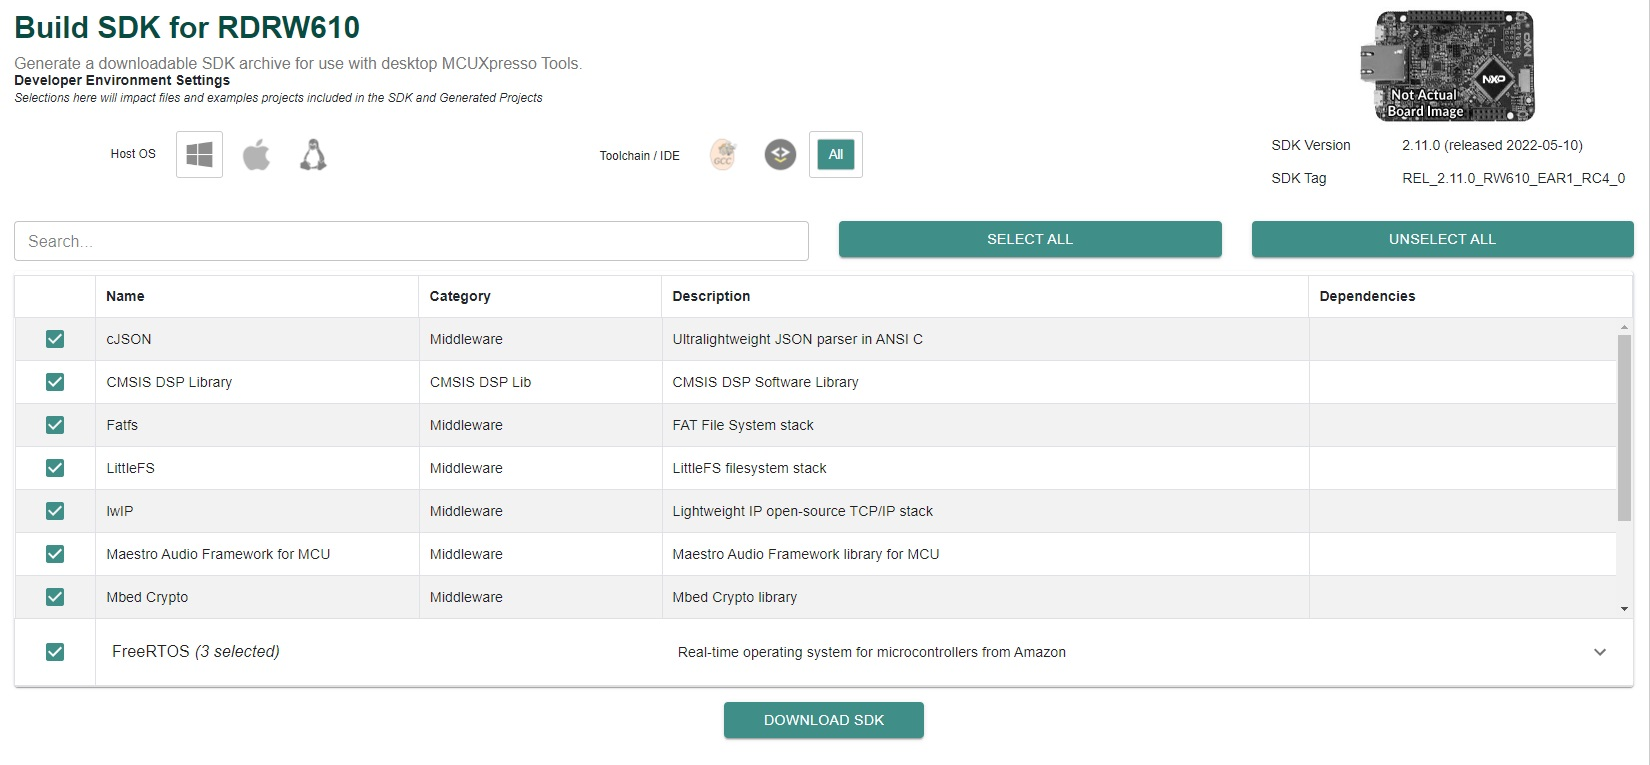
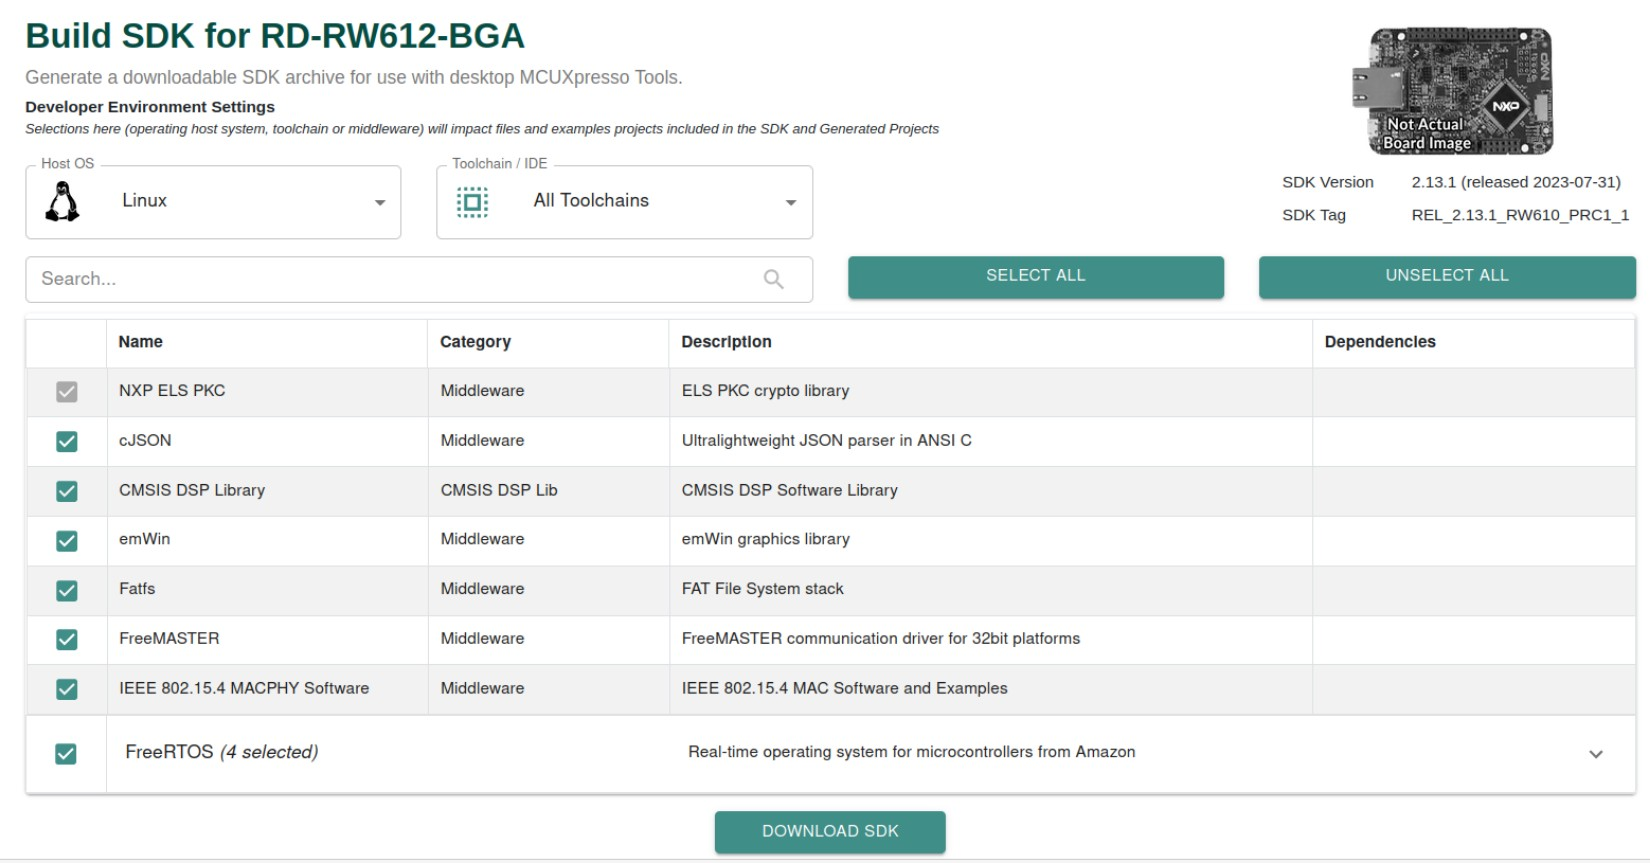
[RW612] openthread README updates

diff --git a/src/rw/rw612/README.md b/src/rw/rw612/README.md
@@ -47,13 +47,14 @@ Make sure that the paths of all these tools are set into the `Path` system varia
 
 ## Downloading the SDK
 
-Before downloading the SDK you have to create an account at nxp.com. Once the account is created, login and follow the steps for downloading the SDK_2.13.0_RD-RW612-BGA.
-To get the SDK go to the public [repo](https://mcuxpresso.nxp.com/) and select the RD-RW612-BGA (RW612) board
+Download [the latest SDK from the link.](https://mcuxpresso.nxp.com/). Creating an nxp.com account is required before being able to download the SDK. Select the RD-RW612-BGA (RW612) board. The SDK Builder UI selection should be similar with the one from the image below.
 
-Click on "Build MCUXpresso SDK v2.13.0" button. On the next page select the desired Host OS and ALL for Toolchain/IDE. Additionaly `SELECT ALL` components and then press `DOWNLOAD SDK` button.
-Once the SDK_2.13.0_RD-RW612-BGA.zip archive is downloaded unzip it and access the contents.
+Click on "Build MCUXpresso SDK" button. On the next page select the desired Host OS and ALL for Toolchain/IDE. Additionaly `SELECT ALL` components and then press `DOWNLOAD SDK` button.
+Once the SDK zip archive is downloaded, unzip it, and access the contents.
 
-![Board Selection](../../../doc/img/sdk-build.jpg)
+> **_NOTE:_** When using the SDK version 2.13.1 in order to build the OpenThread RW612 configurations the 2 additional files `fwk_lfs_config.h` and `fwk_lfs_config.c` must be downloaded from [SDK_2_13_1_RW61X_OT_LFS_Config](https://mcuxpresso.nxp.com/en/dashboard?download=60c36b53bf8c1ba245bc757a1a69cdbc) and copied to SDK location `.../middleware/wireless/framework/platform/rw61x/configs/` .
+
+![Board Selection](../../../doc/img/rw612/sdk-build.jpg)
 
 ## Building the examples
 
